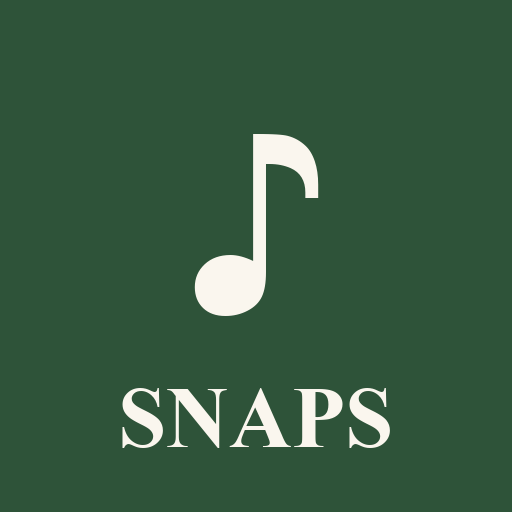
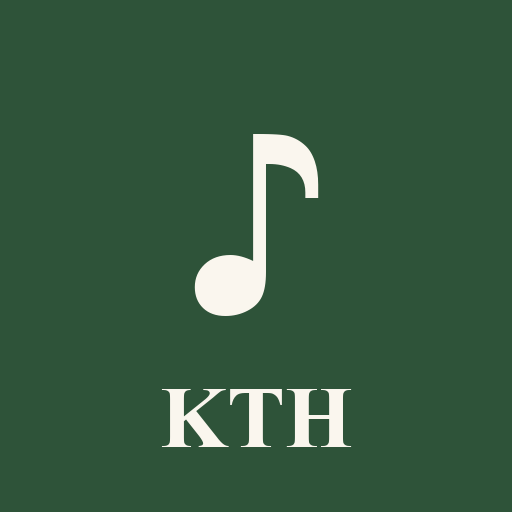
Publicering 2026-07-25

Changed region(s): [[0.2188, 0.75, 0.7812, 0.875]]

diff --git a/index.html b/index.html
@@ -1,7 +1,7 @@
 <!doctype html><html lang="sv"><head><meta charset="utf-8">
 <meta name="viewport" content="width=device-width,initial-scale=1">
 <meta name="robots" content="noindex, nofollow">
-<title>Snapsvisor</title>
+<title>Sångbok KTH</title>
 <link rel="manifest" href="manifest.json">
 <link rel="apple-touch-icon" href="icon-180.png">
 <meta name="theme-color" content="#2e5339">
@@ -52,7 +52,7 @@ label{font-size:.85em;color:var(--blek)}.varnot{background:#fdf3d7;border:1px so
 #skal button{font:inherit;background:var(--gron);color:#fff;border:0;border-radius:8px;padding:10px 22px;cursor:pointer;margin-top:12px}
 #skal .fel{color:var(--rod);font-size:.9em}
 </style></head><body>
-<div id="lista"><h1>Snapsvisor<br><span class="underrubrik">KTH Maskin 1961–2013 &amp; klassiker · <span id="antal">…</span> visor</span></h1>
+<div id="lista"><h1>Sångbok KTH<br><span class="underrubrik">KTH Maskin 1961–2013 &amp; klassiker · <span id="antal">…</span> visor</span></h1>
 <div id="omrval"><span class="omrknapp vald" data-omr="alla">Alla</span><span class="omrknapp" data-omr="kth">KTH Maskin</span><span class="omrknapp" data-omr="ovr">Övriga</span></div>
 <select id="bokval"><option value="">Alla böcker</option><option value="1961">1961</option><option value="1975">1975</option><option value="1981">1981</option><option value="1985">1985</option><option value="1988">1988</option><option value="1991">1991</option><option value="1994">1994</option><option value="1995">1995</option><option value="2000">2000</option><option value="2004">2004</option><option value="2007">2007</option><option value="2010">2010</option><option value="2013">2013</option><option value="Phul 1991">Phul 1991</option></select>
 <select id="kapval"><option value="">Alla kapitel</option></select>
@@ -190,7 +190,7 @@ document.addEventListener('visibilitychange',ta);window.addEventListener('pointe
 /* ===== SKALLÄGE — publicerbart, innehåller noll sångtexter =====
    Data bor i Dropbox App Folder och läses efter inloggning (PKCE).
    Mönstret följer Pizzaindex scripts/shell_env.js. */
-const APP_KEY='__APP_KEY__';
+const APP_KEY='08zh7x71vqpmevs';
 const TOKEN_KEY='kthsangbok.tok';
 const b64url=buf=>btoa(String.fromCharCode(...new Uint8Array(buf))).replace(/\+/g,'-').replace(/\//g,'_').replace(/=+$/,'');
 function missingCapabilities(){const miss=[];
@@ -251,7 +251,7 @@ async function dbxJSON(path){
   throw new Error('Dropbox '+r.status+': '+txt.slice(0,120))}
  return r.json()}
 const skalEl=document.createElement('div');skalEl.id='skal';
-skalEl.innerHTML='<div class="ruta"><h1>Snapsvisor</h1><p id="skalmedd">Startar…</p><div id="skalknappar"></div></div>';
+skalEl.innerHTML='<div class="ruta"><h1>Sångbok KTH</h1><p id="skalmedd">Startar…</p><div id="skalknappar"></div></div>';
 document.body.appendChild(skalEl);
 function skalStatus(medd,knapp){document.getElementById('skalmedd').innerHTML=medd;
  const k=document.getElementById('skalknappar');k.innerHTML='';
